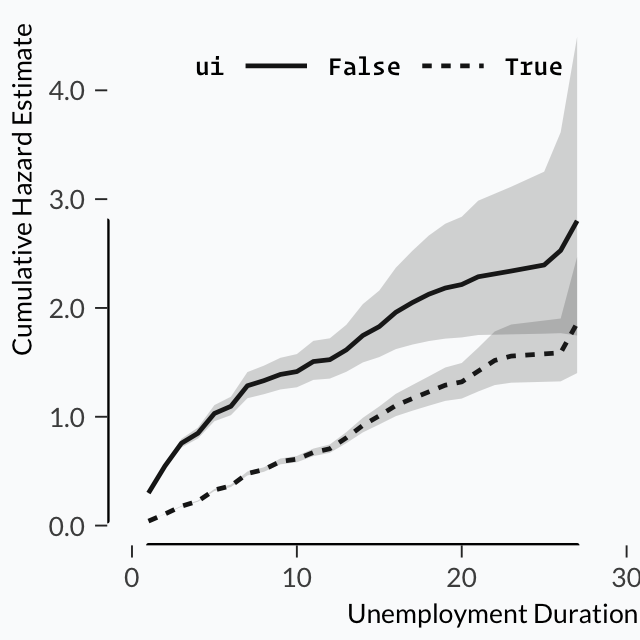
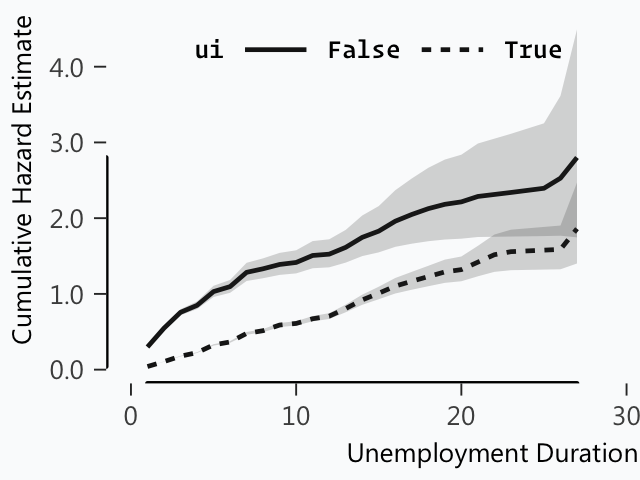
adjust font sizes

diff --git a/css/tufte.scss b/css/tufte.scss
@@ -200,10 +200,11 @@ pre, pre code, p code, p pre code, .marginnote code, figcaption.maincolumn-figur
 
 pre code {
     // Code blocks
-    font-size: 0.85rem;
+    font-size: 1rem;
     margin-left: -2rem;
     line-height: 1.6;
     padding: 0.5rem 1rem 0.5rem 1rem;
+    margin-top: 1rem;
     margin-bottom: 0rem;
     color: $code-color;
     display: block;
@@ -352,6 +353,7 @@ figure, figure img.maincolumn {
     -webkit-margin-start: 0;
     -webkit-margin-end: 0;
     margin-bottom: 3em;
+    margin-top: 2em;
 }
 
 figcaption {
@@ -379,7 +381,6 @@ img { max-width: 100%; }
 figcaption.maincolumn-figure {
     max-width: 50%;
     margin-right: -60%;
-    
 }
 
 .sidenote, .marginnote {

diff --git a/_posts/2021-04-12-Survival-Analysis.md b/_posts/2021-04-12-Survival-Analysis.md
@@ -106,8 +106,12 @@ somewhat evenly split among observations" %}
 |`tenure`  |`integer`  |         |                   |0.00  |4.11  |40.00 |5.86  |
 
 {% marginfigure 'fig4' 'assets/unemp/rates_density.png' "**Figure 4**:
-Densities of `reprate` and `disrate`. " %}
-
+Densities of `reprate` and `disrate`. As can be seen in table 1, both
+variables are of double type, however, examining their number unique
+values, e.g. `length(unique(data$reprate))`, reveal
+that neither are exactly continuous; `reprate` has 419 unique values while
+`disrate` has 246. The range of both variables is too long to treat them as
+discrete, so we're going to leave them as is." %}
 
 ## Censoring and Flow Sampling
 
@@ -140,8 +144,8 @@ where, in our data loaded into R, `spell` correspond to $T$ and `censor4`
 to $\delta$. For standard survival analysis methods to be valid under the
 presence of censoring, we require $C$ to be independent from $T$, so that,
 if $C\sim D(\boldsymbol{\theta}_{\small C})$ and $T^\*\sim
-D(\boldsymbol{\theta}\_{\small T^\*})$, then $\boldsymbol{\theta}\_{\small
-C}$ is uninformative about $\boldsymbol{\theta}\_{\small T^\*}$, in which
+D(\boldsymbol{\theta}\_{\small T^\*})$, we then have $\boldsymbol{\theta}\_{\small
+C}$ being uninformative about $\boldsymbol{\theta}\_{\small T^\*}$, in which
 case we can treat $\delta$ as exogenous and therefore don't have to model $C$.
 
 Multiple censoring mechanisms exists, where the one in this case is assumed
@@ -159,13 +163,24 @@ in it, making a spell exceed the sampling period. The correlation
 coefficient between `censor4` and `spell` is 0.31, which adds evidence to
 the previous statement." %}
 
+{% marginfigure 'fig5' 'assets/unemp/logwage_hist.png' "**Figure 5**:
+Density of `logwage`. Observations are centred around the 5.5
+mark, with a distribution that appear to be, for the most part, bellshaped." %}
 
-{% marginfigure 'logwage_hist' 'assets/unemp/logwage_hist.png' ''  %}
+{% marginfigure 'fig6' 'assets/unemp/tenure_hist.png' "**Figure 6**:
+Histogram of `tenure`. 2.587 observations, 77% of the data, had a tenure of
+five years or less at their lost job, which is unsurprising, as typically
+less experienced personnel is let of off first." %}
 
 ## Survivor, Hazard and Cumulative Hazard Functions
 
-
-{% marginfigure 'tenure_hist' 'assets/unemp/tenure_hist.png' ''  %}
+{% marginfigure 'fig7' 'assets/unemp/age_tenure.png' "**Figure 7**: Scatter
+plot of `age` over `tenure`. The blue line relates to a fitted LOESS
+regression, which reveal what looks like to be a linear relationship
+between the two. Since such a relation does not violate any assumptions of
+the models used herein, the two variables are for now unchanged, but we
+note how much the combined variability in the two may be adequately
+captured by just one of them." %}
 
 Let $T$ denote our response variable, in this case `spell`. For the
 variable $T$, which quantifies the duration of moving from one state to
@@ -222,34 +237,23 @@ two-week intervals, after which rate of declining probability diminishes a
 bit.' %}
 
 {% marginfigure 'kaplan_meier_mv' 'assets/unemp/kaplan_meier_mv.png'
-'Kaplan-Meier estimator of the survivor function on `spell`. Shaded area
-gives the 95% confidence bands. Note the sharp decline until around 8
-two-week intervals, after which rate of declining probability diminishes a
-bit.' %}
+'' %}
 
 Sample estimates for $S(t)$ and $\Lambda(t)$ are readily available via the
 **Kaplan-Meier** and **Nelson-Aalen** estimators, respectively. In
-constructing these estimators, we make use of the following variables
+constructing these estimators, we make use of the following variables:  
 
 <table class='norulers'>
 <tr><td>$d_j$</td><td>The number of completed spells at time $t_j$.</td></tr>
 <tr><td>$m_j$</td><td>The number of right-consored spells in the interval $[t_j,t_{j+1})$.</td></tr>
-<tr><td>$r_j$</td><td>The number of spell that have neither ended nor been censored at time $t_j$.</td></tr>
+<tr><td>$r_j$</td><td>The number of spell that have neither ended nor been censored just before time $t_j$, which can be computed as $r_j=\sum_{l\mid l\geqslant j}(d_l+m_l)$.</td></tr>
 </table>
 
 Using the sample estimate $\hat{\lambda}(t_j)=d_j/r_j$, we can then derive
-the nonparametric models as
-
-$$
-    \begin{align}
-    \hat{S}(t)&=\prod_{j\mid t_j\leqslant t}1-\hat{\lambda}(t_j)=
-    \prod_{j\mid j\leqslant t}\frac{r_j-d_j}{d_j} \\
-    \hat{\Lambda}(y)&=\sum_{j\mid y_j\leqslant y}\hat{\lambda}(t_j)=
-    \sum_{j\mid y_j\leqslant y }\frac{d_j}{r_j}
-    \end{align}
-$$
-
-which we compute in R as
+the nonparametric models as $\hat{S}(t)=\prod_{t_j\mid t_j\leqslant
+t}1-\hat{\lambda}(t_j)$ for the Kaplan-Meier estimate of $S(t)$, and
+$\hat{\Lambda}(t)=\sum_{t_j\mid t_j\leqslant t} \hat{\lambda}(t)$ for the
+Nelson-Aalen estimate of $\Lambda(t)$. In R we simply call
 
 ```R
 # Univariate sample estimates
@@ -259,16 +263,10 @@ mvnonparam <- survfit(Surv(spell, censor4 == 0) ~ ui, data)
 ```
 
 {% marginfigure 'nelson_aalen' 'assets/unemp/nelson_aalen.png'
-'Kaplan-Meier estimator of the survivor function on `spell`. Shaded area
-gives the 95% confidence bands. Note the sharp decline until around 8
-two-week intervals, after which rate of declining probability diminishes a
-bit.' %}
+'' %}
 
 {% marginfigure 'nelson_aalen_mv' 'assets/unemp/nelson_aalen_mv.png'
-'Kaplan-Meier estimator of the survivor function on `spell`. Shaded area
-gives the 95% confidence bands. Note the sharp decline until around 8
-two-week intervals, after which rate of declining probability diminishes a
-bit.' %}
+'' %}
 
 While the confidence intervals were readily available in the `survfit`
 object for $\hat{S}(t)$, they must be manually computed for
@@ -280,9 +278,7 @@ chazci <- function(model, alpha = .05) {
     upper <- model$cumhaz * exp(-qnorm(alpha / 2, 0, 1) * model$std.chaz)
     data.frame(lower, upper)
 }
-
 ```
-
 
 ## Semiparametric and Parametric Specifications
 
